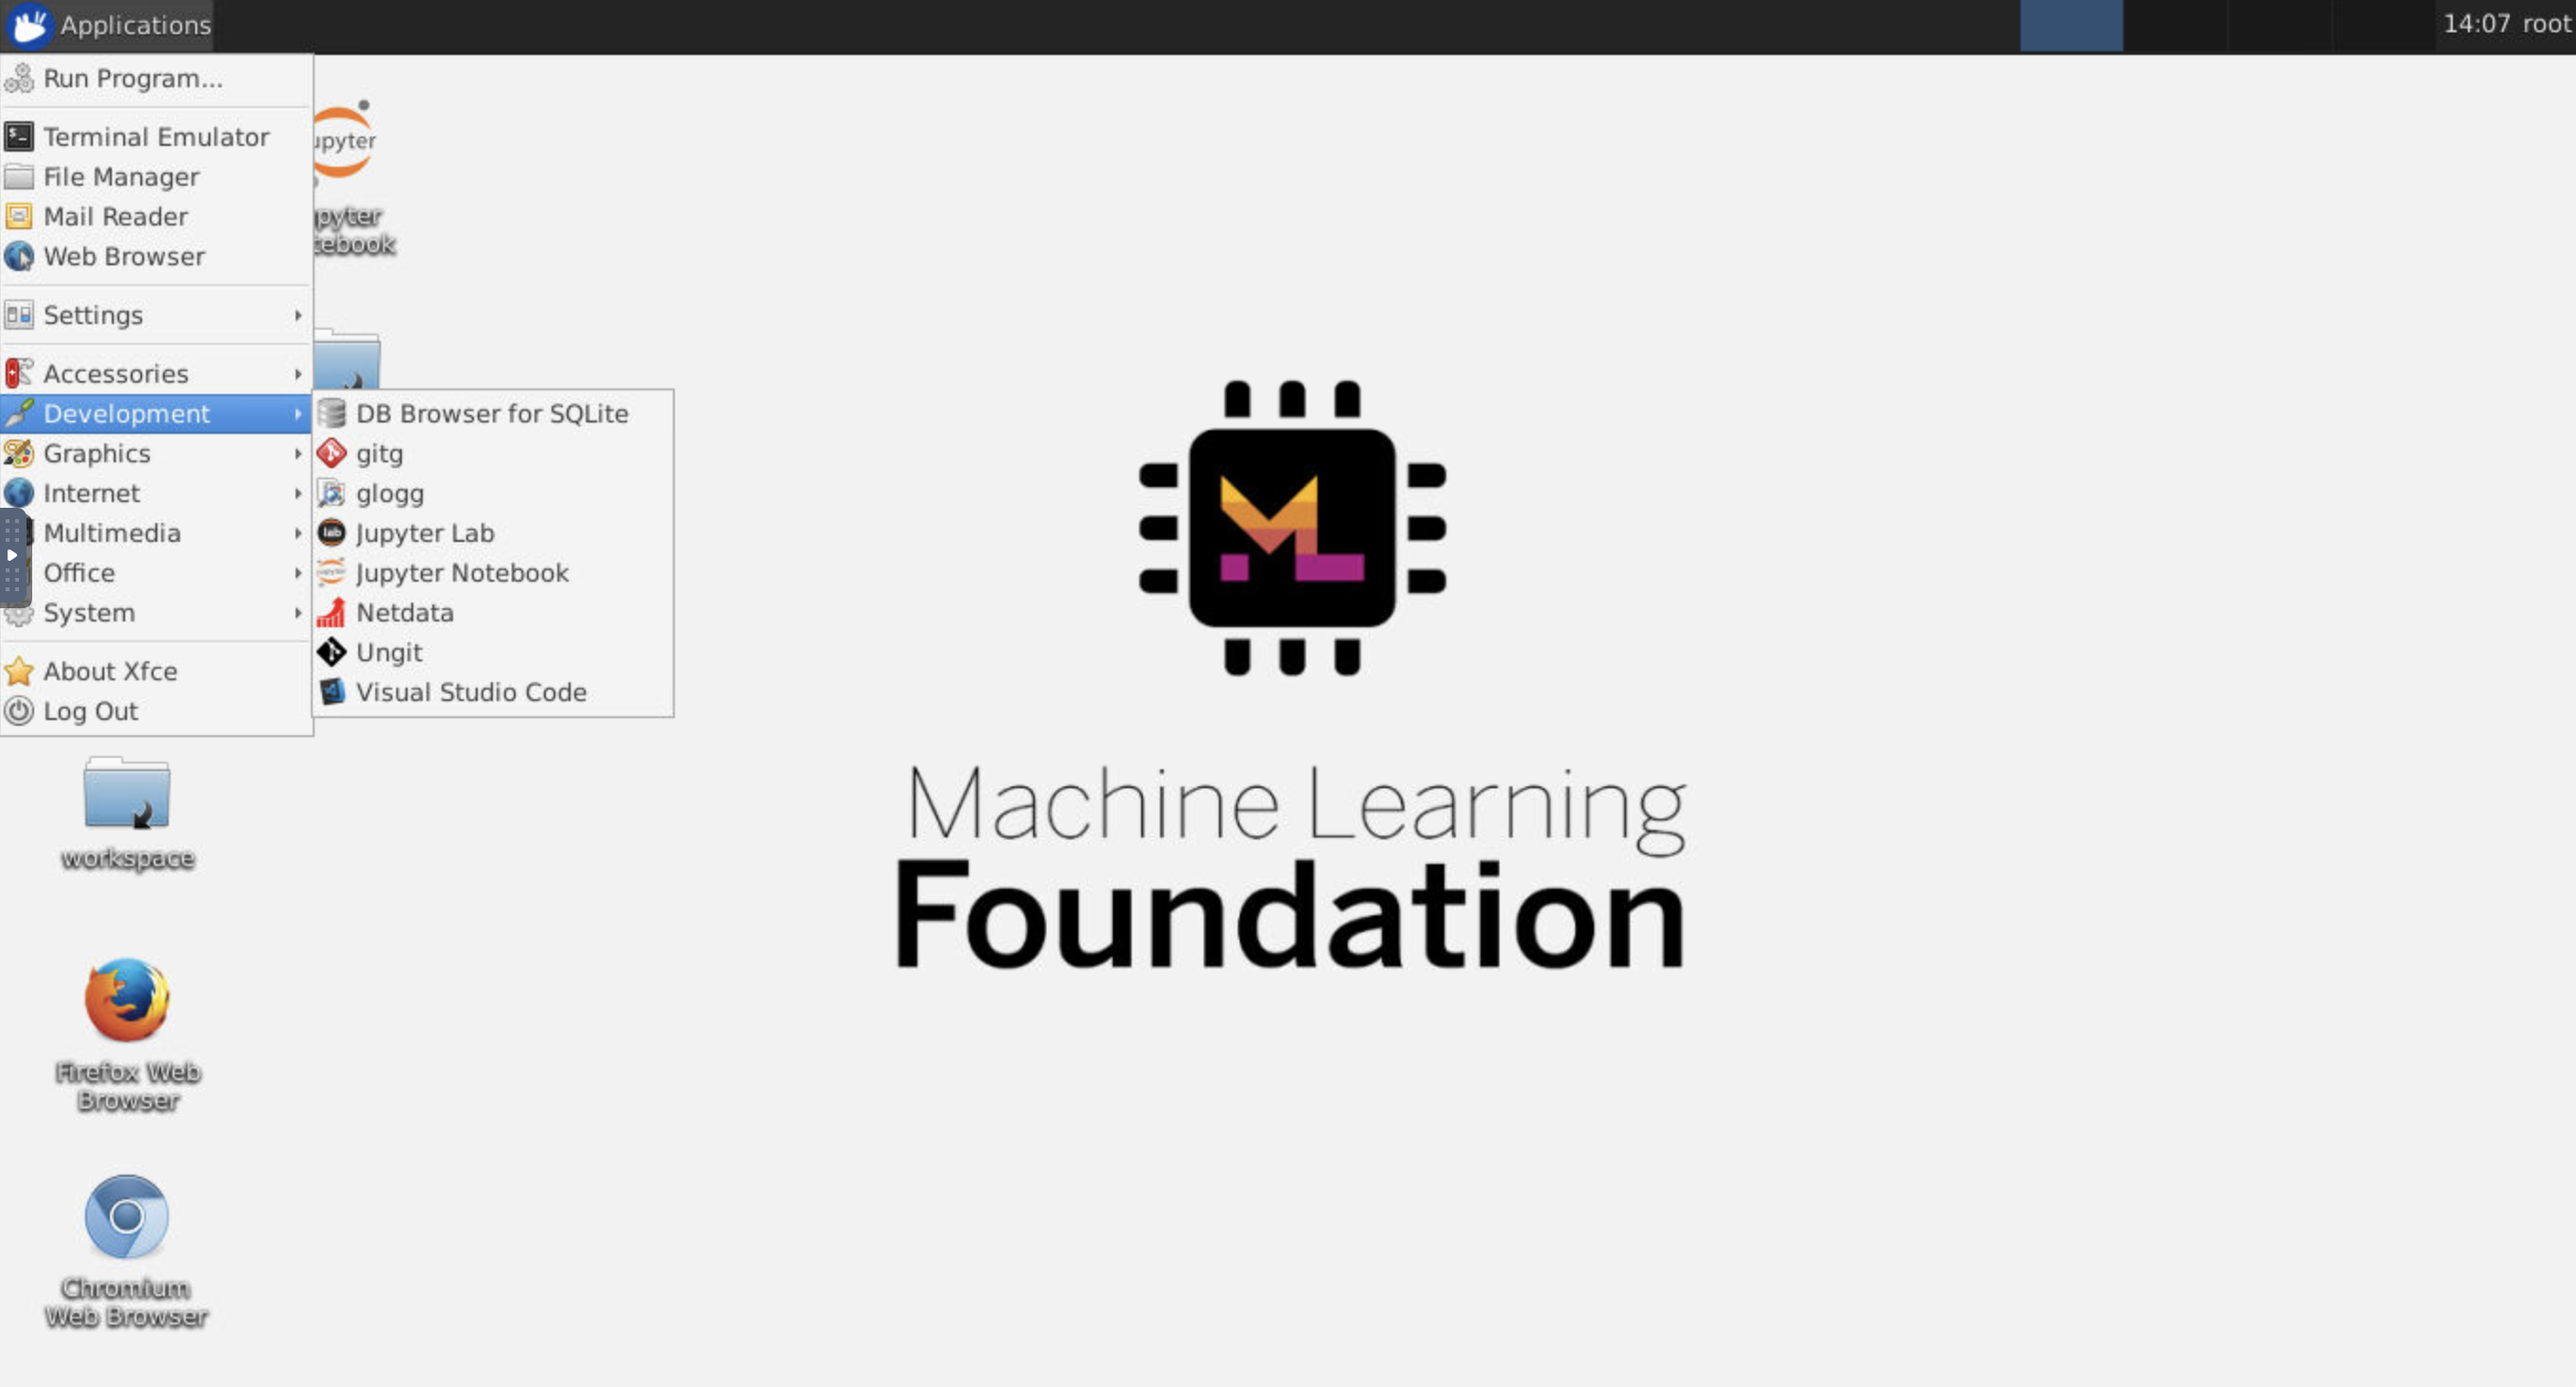
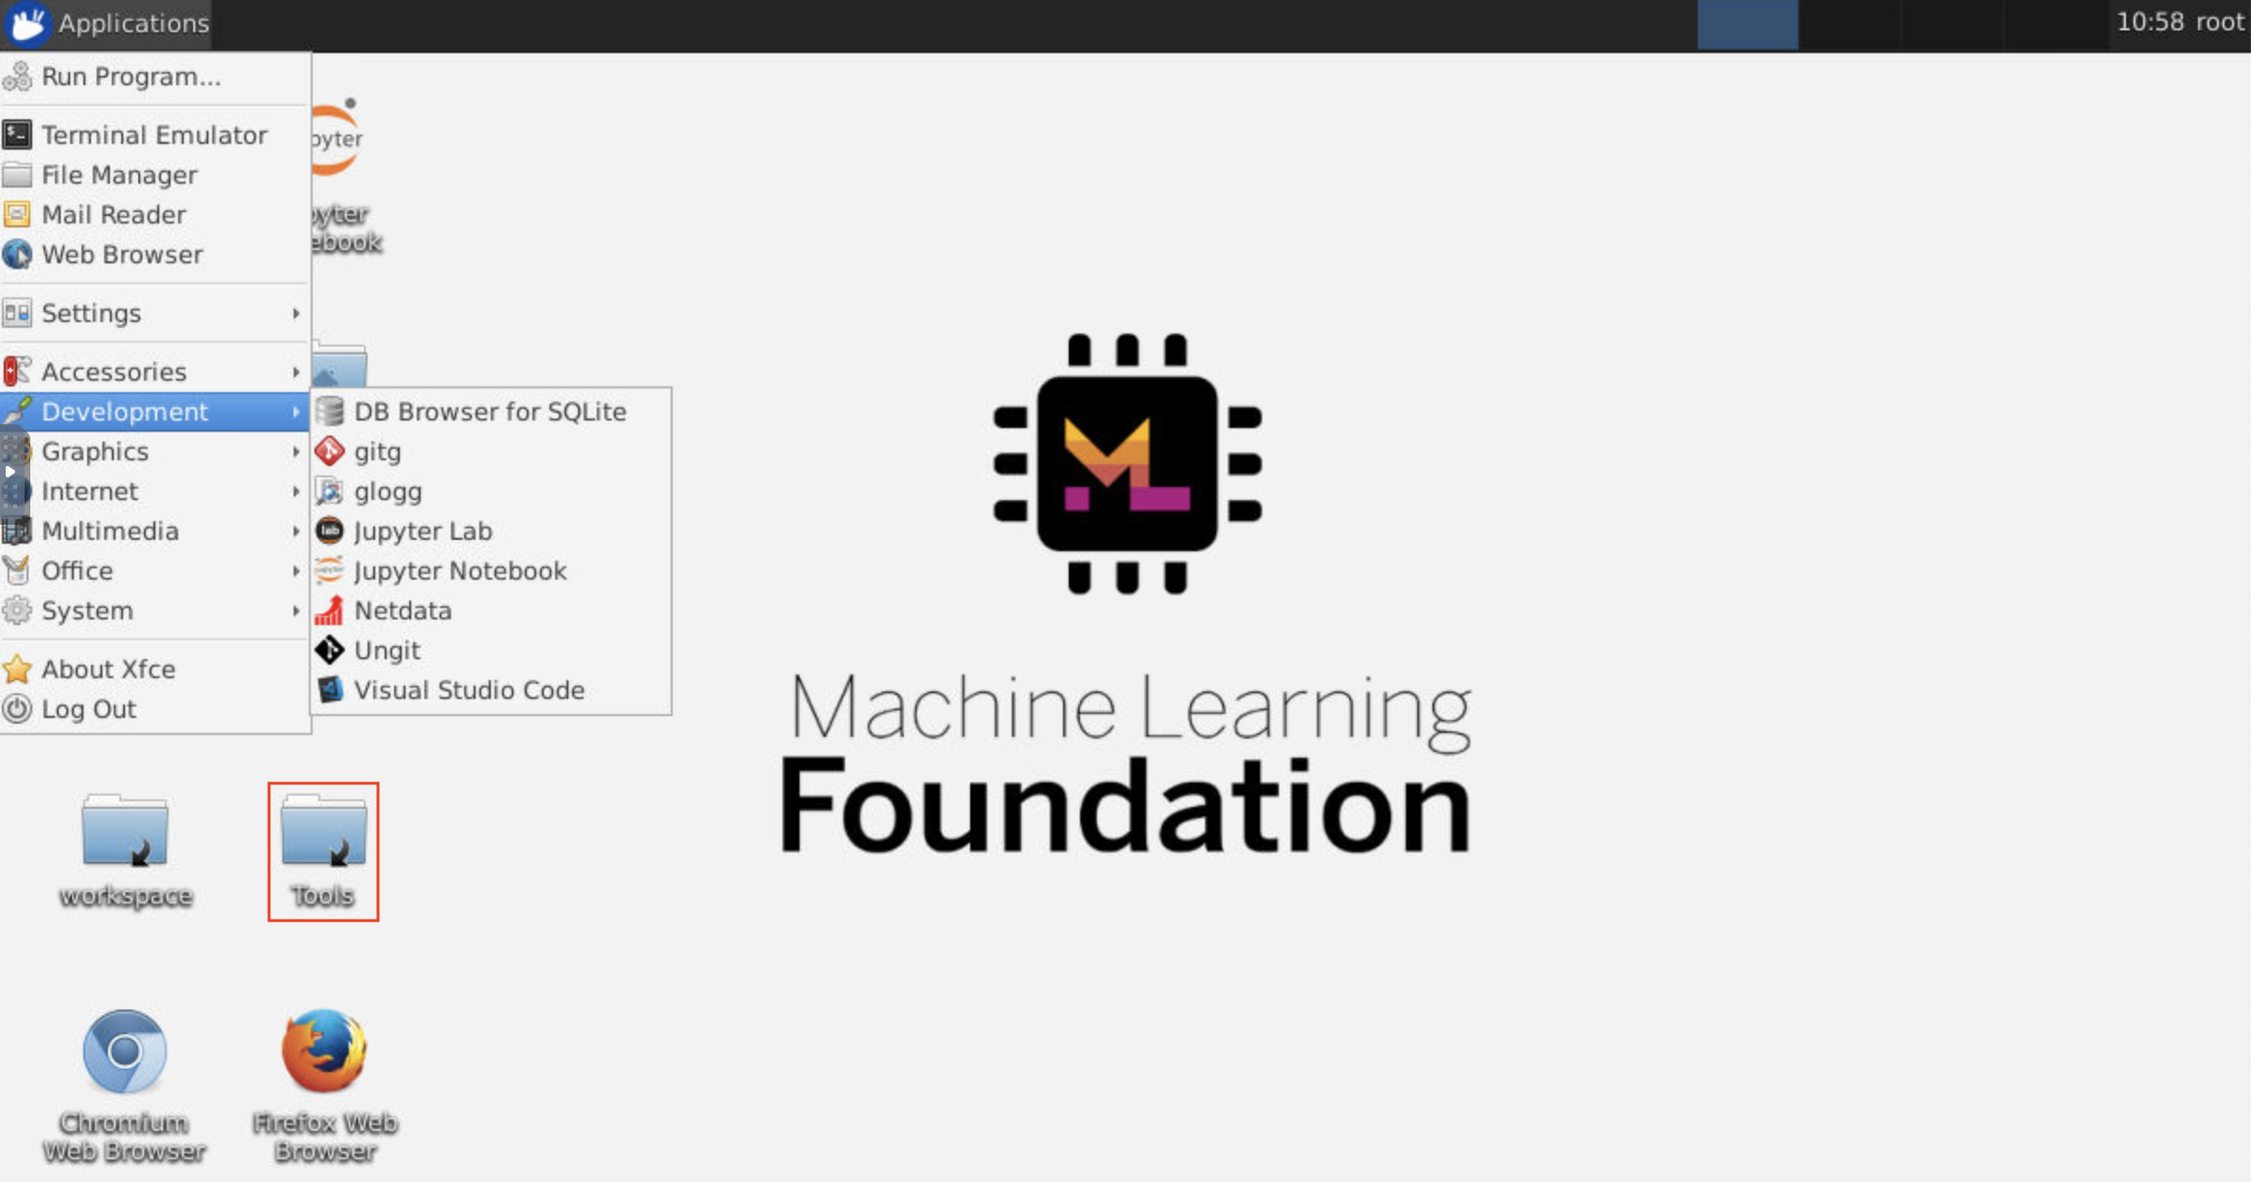
Added feature documentation for jupyter

diff --git a/README.md b/README.md
@@ -156,7 +156,31 @@ valuable if it's shared publicly so that more people can benefit from it.
 
 ## Features
 
-The workspace is equipped with a selection of common tools to help with the data science and experimentation workflow. Many of these tools can be started from the `Open Tools` menu.
+The workspace is equipped with a selection of best-in-class open-source development tools to help with the machine learning workflow. Many of these tools can be started from the `Open Tools` menu from Jupyter (the main application of the workspace):
+
+<img src="./docs/images/feature-open-tools.png"/>
+
+> ℹ _Within your workspace you have `full root & sudo access` to install any library or tool you need via terminal (e.g., `pip` or `apt-get`)_
+
+### Jupyter
+
+[Jupyter Notebook](https://jupyter.org/) is a web-based interactive environment for writing and running code. The main building blocks of Jupyter are the file-browser, the notebook editor, and kernels. The file-browser provides an interactive file manager for all notebooks, files, and folders in the `/workspace` directory.
+
+<img src="./docs/images/feature-jupyter-tree.png"/>
+
+A new notebook can be created by clicking on the `New` drop-down button at the top of the list and selecting the desired language kernel.
+
+> 💡 _You can spawn interactive **terminal** instances as well by selecting `New -> Terminal` in the file-browser._
+
+<img src="./docs/images/feature-jupyter-notebook.png"/>
+
+The notebook editor enables users to author documents that include live code, markdown text, shell commands, LaTeX equations, interactive widgets, plots, and images. These notebook documents provide a complete and self-contained record of a computation that can be converted to various formats and shared with others.
+
+> ℹ _This workspace has a variety of **third-party Jupyter extensions** activated. You can configure these extensions in the nbextensions configurator: `nbextensions` tab on the file browser_
+
+The Notebook allows code to be run in a range of different programming languages. For each notebook document that a user opens, the web application starts a **kernel** that runs the code for that notebook and returns output. This workspace has a Python 3 and Python 2 kernel pre-installed. Additional Kernels can be installed to get access to other languages (e.g., R, Scala, Go) or additional computing resources (e.g., GPUs, CPUs, Memory).
+
+> ℹ _**Python 2** support is deprecated and not fully supported. Please only use Python 2 if necessary!_
 
 ### Desktop GUI
 
@@ -164,7 +188,7 @@ This workspace provides an HTTP-based VNC access to the workspace via [noVNC](ht
 
 <img src="./docs/images/feature-desktop-vnc.png"/>
 
-Once you are connected, you will see a desktop GUI that allows you to install and use any tool that is available for Ubuntu. Within the `Tools` folder on the desktop, you will find a collection of install scripts that makes it straightforward to install some of the most commonly used development tools, such as Atom, PyCharm, R-Runtime, R-Studio, or Postman (just double-click on the script).
+Once you are connected, you will see a desktop GUI that allows you to install and use full-fledged web-browsers or any other tool that is available for Ubuntu. Within the `Tools` folder on the desktop, you will find a collection of install scripts that makes it straightforward to install some of the most commonly used development tools, such as Atom, PyCharm, R-Runtime, R-Studio, or Postman (just double-click on the script).
 
 **Clipboard:** If you want to share the clipboard between your machine and the workspace, you can use the copy-paste functionality as described below:
 
@@ -242,7 +266,7 @@ If you have opened a Tensorboard instance in a valid log directory, you will see
 
 > ℹ _Tensorboard can be used in combination with many other ML frameworks besides Tensorflow. By using the [tensorboardX](https://github.com/lanpa/tensorboardX) library you can log basically from any python based library. Also, PyTorch has a direct Tensorboard integration as described [here](https://pytorch.org/docs/stable/tensorboard.html)._
 
-If you prefer to see the tensorboard directly within your notebook, you can make use following Jupyter magic.
+If you prefer to see the tensorboard directly within your notebook, you can make use following **Jupyter magic**:
 
 ```
 %load_ext tensorboard.notebook
@@ -254,6 +278,10 @@ If you prefer to see the tensorboard directly within your notebook, you can make
 ### Remote Development
 
 _WIP: Remote Kernels and VS Code remote development_
+
+### Preinstalled Libraries 
+
+_WIP:_
 
 ## Contribution
 
